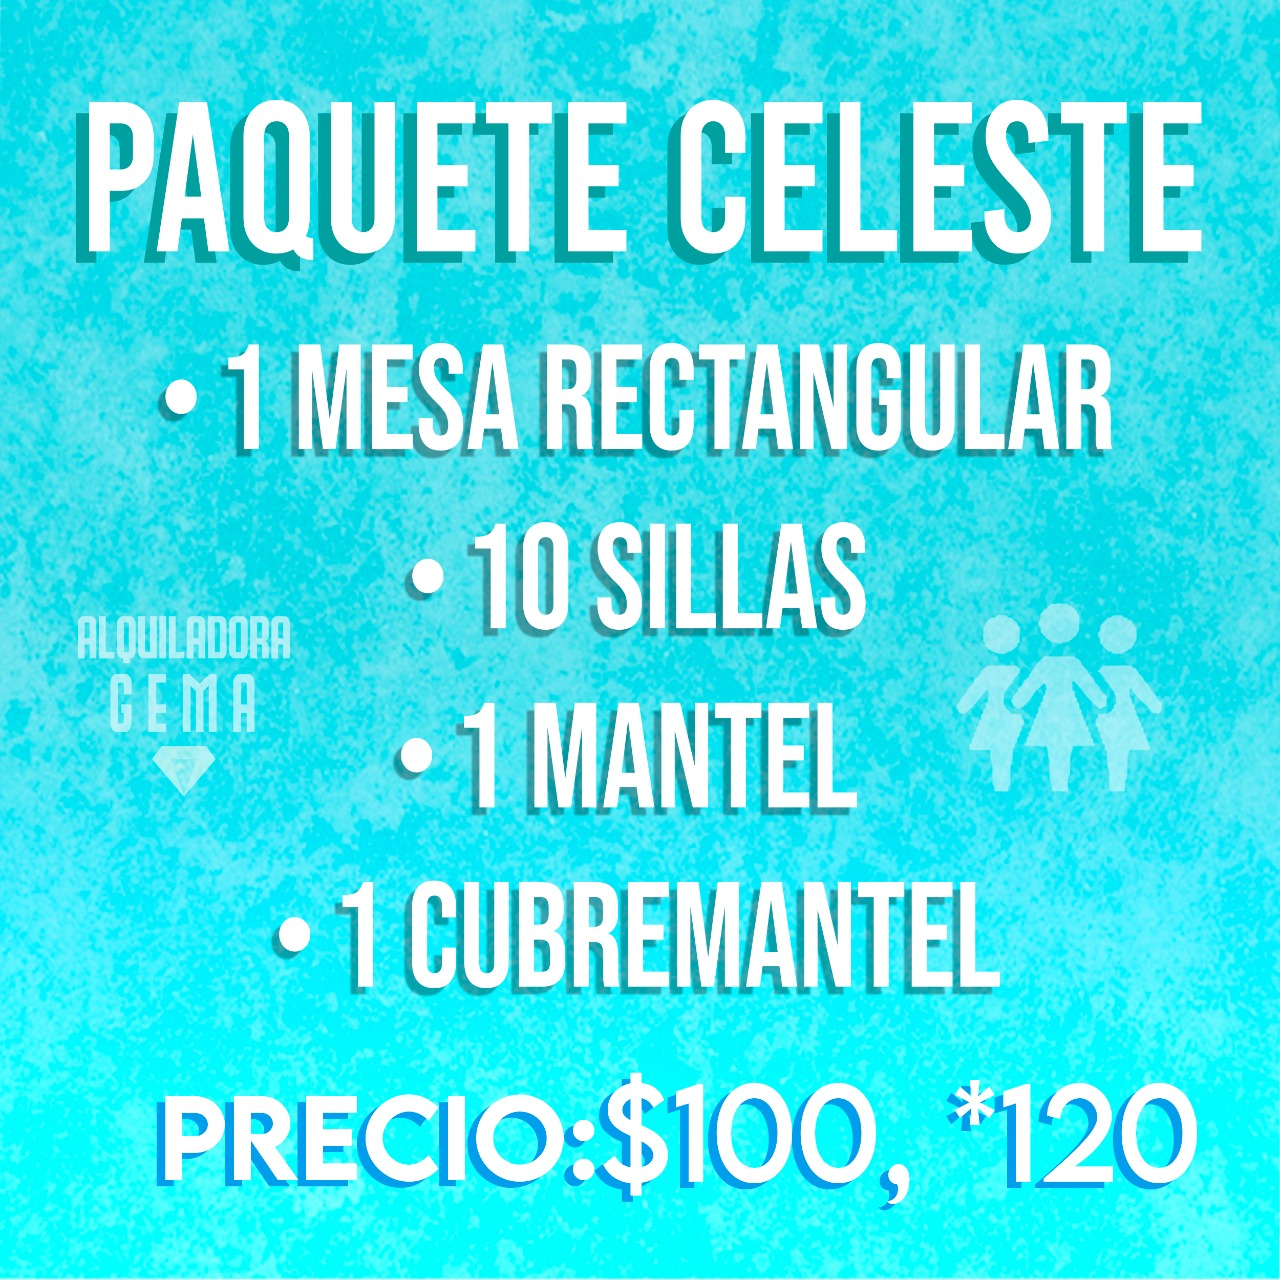
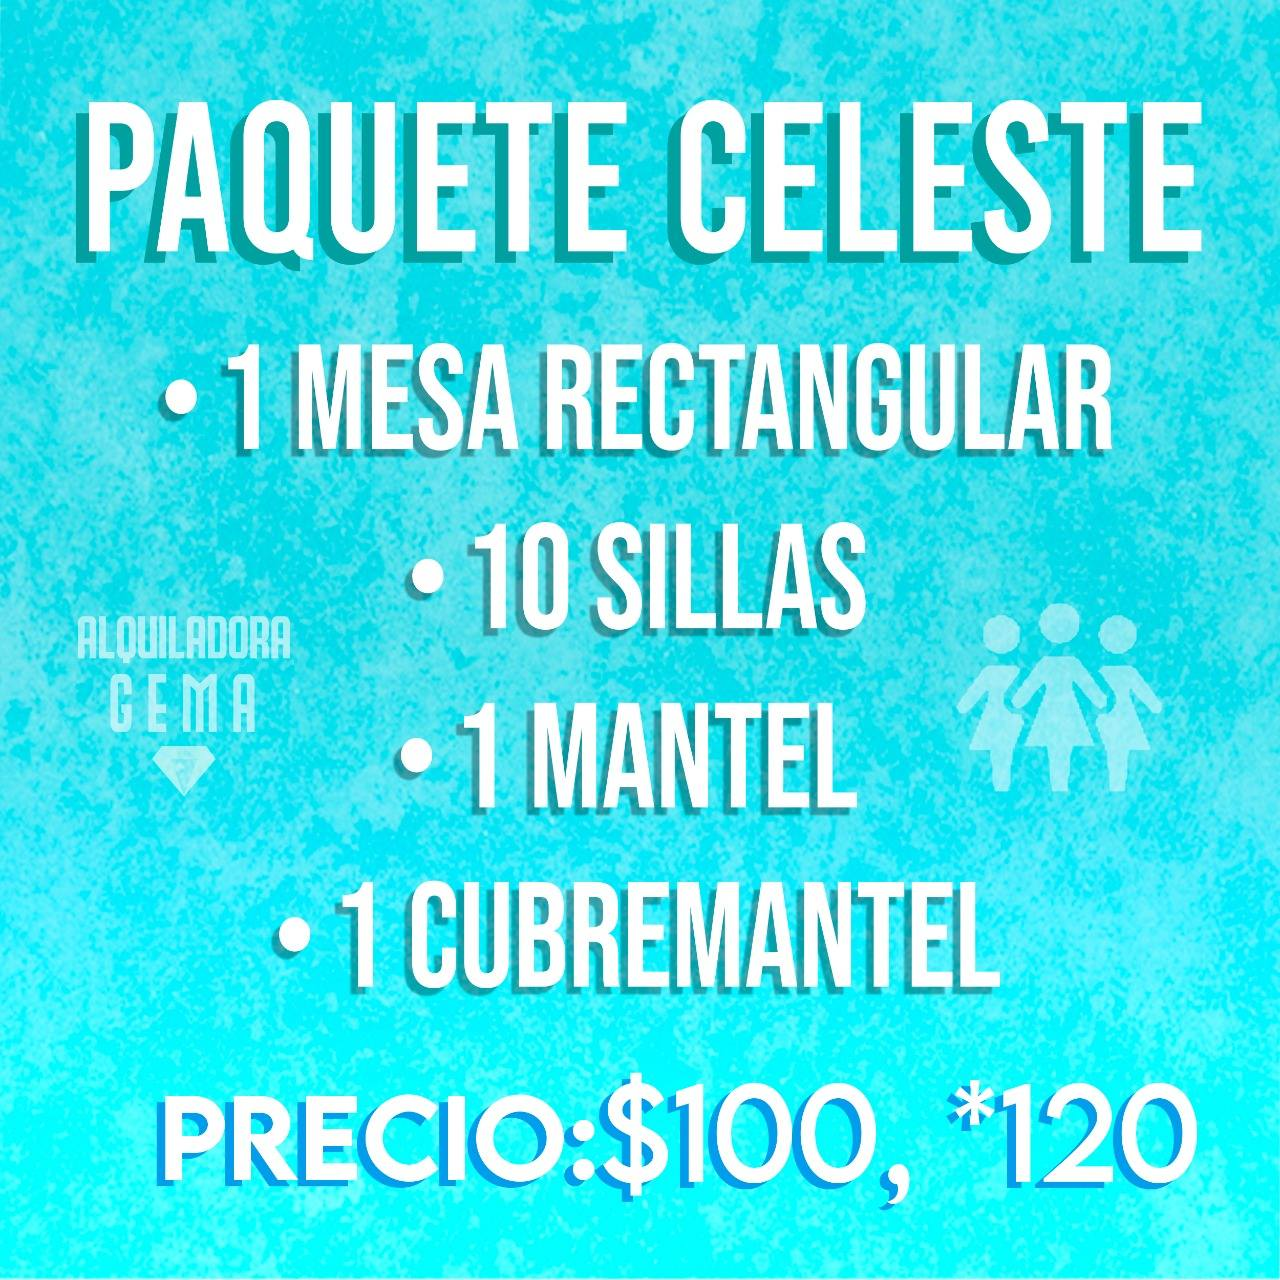
v1.0-HTML,CSS, JS

Changed region(s): [[0.75, 0.8438, 0.7812, 0.875]]

diff --git a/index.html b/index.html
@@ -34,7 +34,7 @@
   <!-- 🟩 Hero Section -->
   <header id="inicio" class="bg-light text-dark text-center py-5 mt-5">
     <div class="container"  >
-      <h1 class="display-4 fw-bold">Te haremos brillar✨🎉</h1>
+      <h1 class="display-4 fw-bold">Te haremos brillar💎✨🎉</h1>
       <p class="lead">Alquiler de mesas, sillas, inflables y más.</p>
       <a href="#contacto" class="btn  btn btn-dark mt-3">Solicita una cotización</a>
     </div>
@@ -57,41 +57,31 @@
           </div>
         </div>
 
-        <!-- Tarjeta 2 
-        <div class="col-md-4">
-          <div class="card h-100 shadow-sm">
-            <img src="img/Paquete_marfil.jpeg" class="card-img-top" alt="Inflables">
-            <div class="card-body">
-              <h5 class="card-title">Inflables y Brincolines</h5>
-              <p class="card-text">Diversión asegurada para los más pequeños con inflables seguros y coloridos.</p>
+
+
+    <!-- Tarjeta con carrusel que cambia al pasar el cursor -->
+    <div class="col-md-4">
+      <div class="card h-100 shadow-sm">
+        <div id="carouselInflables" class="carousel slide" data-bs-ride="false">
+          <div class="carousel-inner">
+            <div class="carousel-item active">
+              <img src="img/Multicastillo.jpeg" class="d-block w-100 card-img-top" alt="Inflable 1">
+            </div>
+            <div class="carousel-item">
+              <img src="img/Frozen.jpeg" class="d-block w-100 card-img-top" alt="Inflable 2">
+            </div>
+            <div class="carousel-item">
+              <img src="img/Promocion.jpeg" class="d-block w-100 card-img-top" alt="Inflable 3">
             </div>
           </div>
         </div>
-      -->
 
-      <!-- Tarjeta con carrusel que cambia al pasar el cursor -->
-<div class="col-md-4">
-  <div class="card h-100 shadow-sm">
-    <div id="carouselInflables" class="carousel slide" data-bs-ride="false">
-      <div class="carousel-inner">
-        <div class="carousel-item active">
-          <img src="img/Multicastillo.jpeg" class="d-block w-100 card-img-top" alt="Inflable 1">
-        </div>
-        <div class="carousel-item">
-          <img src="img/Frozen.jpeg" class="d-block w-100 card-img-top" alt="Inflable 2">
-        </div>
-        <div class="carousel-item">
-          <img src="img/Promocion.jpeg" class="d-block w-100 card-img-top" alt="Inflable 3">
+        <div class="card-body">
+          <h5 class="card-title">Inflables y Brincolines</h5>
+          <p class="card-text">Diversión asegurada para los más pequeños con inflables seguros y coloridos.</p>
         </div>
       </div>
     </div>
-
-    <div class="card-body">
-      <h5 class="card-title">Inflables y Brincolines</h5>
-      <p class="card-text">Diversión asegurada para los más pequeños con inflables seguros y coloridos.</p>
-    </div>
-  </div>
-</div>
 
         <!-- Tarjeta 3 -->
         <div class="col-md-4">

diff --git a/js/main.js b/js/main.js
@@ -1,6 +1,6 @@
   document.querySelectorAll('.carousel').forEach(carousel => {
     const bsCarousel = new bootstrap.Carousel(carousel, {
-      interval: 2500, // cambia cada 2 segundos
+      interval: 2500,
       pause: false
     });
 

diff --git a/css/styles.css b/css/styles.css
@@ -3,7 +3,6 @@ body {
 }
 
 header {
-  background-image: url('../img/evento.jpg');
   background-size: cover;
   background-position: center;
   color: white;
